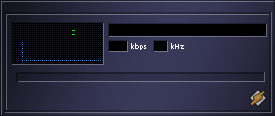
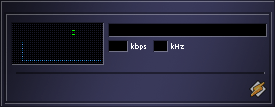
Player mais baixo: remove faixa central do MAIN (116->107px)
- MAIN.png sem as linhas 74-82; janela 275x107, elementos abaixo do
  corte sobem 9px (posbar, transporte, eject, shuffle/repeat)
- Botões shuffle/repeat trocados de posição
- Janela de menu adaptada ao novo MAIN

Generated with [Devin](https://devin.ai)

diff --git a/internal/ui/native/winamp.go b/internal/ui/native/winamp.go
@@ -26,7 +26,7 @@ func (ui *uiState) layoutMain(gtx layout.Context) {
 		return
 	}
 
-	ui.spr(gtx, "MAIN", R(0, 0, 275, 116), R(0, 0, 275, 116))
+	ui.spr(gtx, "MAIN", R(0, 0, 275, 107), R(0, 0, 275, 107))
 
 	// ---- titlebar ----
 	ui.spr(gtx, "TITLEBAR", R(47, 0, 222, 11), R(20, 0, 222, 11)) // contend
@@ -39,7 +39,7 @@ func (ui *uiState) layoutMain(gtx layout.Context) {
 		minimizeWindow(ui.winMain)
 	}
 	if ui.spriteBtn(gtx, &ui.btnSize, "TITLEBAR", R(254, 3, 9, 9), R(0, 18, 9, 9), R(9, 18, 9, 9)) {
-		toggleWindowScale(&ui.mainScale, ui.winMain, unit.Dp(275), unit.Dp(116))
+		toggleWindowScale(&ui.mainScale, ui.winMain, unit.Dp(275), unit.Dp(107))
 		saveMainScale(ui.mainScale)
 	}
 	if ui.spriteBtn(gtx, &ui.btnClose, "TITLEBAR", R(264, 3, 9, 9), R(18, 0, 9, 9), R(18, 9, 9, 9)) {
@@ -132,13 +132,13 @@ func (ui *uiState) shadeBar(gtx layout.Context, r image.Rectangle) {
 	// ---- 2x/1x (mesmo sprite do botão size da titlebar) ----
 	if ui.spriteBtn(gtx, &ui.btnSize, "TITLEBAR", R(247, 3, 12, 12),
 		R(0, 18, 9, 9), R(9, 18, 9, 9)) {
-		h := unit.Dp(116)
+		h := unit.Dp(107)
 		if ui.shadeMain.on {
 			h = unit.Dp(18)
 		}
 		toggleWindowScale(&ui.mainScale, ui.winMain, unit.Dp(275), h)
 		saveMainScale(ui.mainScale)
-		wmShadeFull("sfrega", shadePx(ui.mainScale, 116))
+		wmShadeFull("sfrega", shadePx(ui.mainScale, 107))
 	}
 
 	// ---- fechar ----
@@ -361,8 +361,8 @@ func (ui *uiState) posBar(gtx layout.Context, R func(int, int, int, int) image.R
 		ui.posDrag.val = float32(frac)
 	}
 	tx := 16 + int(float32(ui.posDrag.val)*219)
-	ui.spr(gtx, "POSBAR", R(248, 0, 29, 10), R(tx, 73, 29, 10))
-	ui.scrub(gtx, &ui.posDrag, R(16, 64, 248, 20))
+	ui.spr(gtx, "POSBAR", R(248, 0, 29, 10), R(tx, 64, 29, 10))
+	ui.scrub(gtx, &ui.posDrag, R(16, 64, 248, 12))
 }
 
 // transport desenha prev/play/pause/stop/next/eject (CBUTTONS.png).
@@ -382,12 +382,12 @@ func (ui *uiState) transport(gtx layout.Context, R func(int, int, int, int) imag
 		{&ui.btnNext, 108, 92, 22, func() { ui.p.Next(); ui.p.Play() }},
 	}
 	for _, b := range btns {
-		if ui.spriteBtn(gtx, b.b, "CBUTTONS", R(b.x, 88, b.w, 18),
+		if ui.spriteBtn(gtx, b.b, "CBUTTONS", R(b.x, 79, b.w, 18),
 			R(b.col, 0, b.w, 18), R(b.col, 18, b.w, 18)) {
 			b.fn()
 		}
 	}
-	if ui.spriteBtn(gtx, &ui.btnEject, "CBUTTONS", R(136, 89, 22, 16),
+	if ui.spriteBtn(gtx, &ui.btnEject, "CBUTTONS", R(136, 80, 22, 16),
 		R(114, 0, 22, 16), R(114, 16, 22, 16)) {
 		ui.eject()
 	}
@@ -396,11 +396,11 @@ func (ui *uiState) transport(gtx layout.Context, R func(int, int, int, int) imag
 // shuffleRepeat desenha botões repeat/shuffle (SHUFREP.png).
 func (ui *uiState) shuffleRepeat(gtx layout.Context, R func(int, int, int, int) image.Rectangle) {
 	// repeat em x=0 (28px), shuffle em x=28 (47px); y: 0 norm,15 pressed,30 sel,45 sel+pressed
-	if ui.eqplBtn(gtx, &ui.btnShuf, "SHUFREP", R(164, 88, 28, 15), ui.repeat,
+	if ui.eqplBtn(gtx, &ui.btnShuf, "SHUFREP", R(211, 79, 28, 15), ui.repeat,
 		R(0, 0, 28, 15), R(0, 15, 28, 15), R(0, 30, 28, 15), R(0, 45, 28, 15),
 		func() { ui.repeat = !ui.repeat; ui.p.SetRepeat(ui.repeat) }) {
 	}
-	if ui.eqplBtn(gtx, &ui.btnRep, "SHUFREP", R(192, 88, 47, 15), ui.shuffle,
+	if ui.eqplBtn(gtx, &ui.btnRep, "SHUFREP", R(164, 79, 47, 15), ui.shuffle,
 		R(28, 0, 47, 15), R(28, 15, 47, 15), R(28, 30, 47, 15), R(28, 45, 47, 15),
 		func() { ui.shuffle = !ui.shuffle; ui.p.SetShuffle(ui.shuffle) }) {
 	}

diff --git a/internal/ui/native/native.go b/internal/ui/native/native.go
@@ -911,7 +911,7 @@ func Run(p *player.Player) error {
 	ui.winMain.Option(
 		app.Title("sfrega"),
 		app.Decorated(false),
-		app.Size(unit.Dp(275*ui.mainScale), unit.Dp(116*ui.mainScale)),
+		app.Size(unit.Dp(275*ui.mainScale), unit.Dp(107*ui.mainScale)),
 	)
 
 	// restaura estado shade persistido
@@ -931,7 +931,7 @@ func Run(p *player.Player) error {
 			wmNoDecorations()
 			wmRestoreGeometry()
 			if shadePending && wmShadeSet("sfrega",
-				shadePx(ui.mainScale, 18), shadePx(ui.mainScale, 116)) {
+				shadePx(ui.mainScale, 18), shadePx(ui.mainScale, 107)) {
 				shadePending = false
 			}
 			if ontopPending && ontopTicks < 40 {
@@ -1009,7 +1009,7 @@ func Run(p *player.Player) error {
 			return e.Err
 		case app.FrameEvent:
 			gtx := app.NewContext(&ops, e)
-			gtx = beginScaledFrame(gtx, ui.mainScale, image.Pt(275, 116))
+			gtx = beginScaledFrame(gtx, ui.mainScale, image.Pt(275, 107))
 			ui.layoutMain(gtx)
 			e.Frame(gtx.Ops)
 		}

diff --git a/internal/ui/native/menwin.go b/internal/ui/native/menwin.go
@@ -141,11 +141,11 @@ func (ui *uiState) menuLoop() {
 func (ui *uiState) layoutMenu(gtx layout.Context) {
 	R := func(x, y, w, h int) image.Rectangle { return image.Rect(x, y, x+w, y+h) }
 
-	ui.spr(gtx, "MAIN", R(0, 0, 275, 116), R(0, 0, 275, 116))
+	ui.spr(gtx, "MAIN", R(0, 0, 275, 107), R(0, 0, 275, 107))
 	// altura dobrada: estende laterais e base com as bordas do MAIN
-	ui.spr(gtx, "MAIN", R(0, 0, 2, 116), R(0, 116, 2, 116))
-	ui.spr(gtx, "MAIN", R(273, 0, 2, 116), R(273, 116, 2, 116))
-	ui.spr(gtx, "MAIN", R(0, 106, 275, 10), R(0, 222, 275, 10))
+	ui.spr(gtx, "MAIN", R(0, 0, 2, 107), R(0, 107, 2, 125))
+	ui.spr(gtx, "MAIN", R(273, 0, 2, 107), R(273, 107, 2, 125))
+	ui.spr(gtx, "MAIN", R(0, 97, 275, 10), R(0, 222, 275, 10))
 	ui.spr(gtx, "TITLEBAR", R(47, 0, 222, 11), R(20, 0, 222, 11))
 	ui.spr(gtx, "TITLEBAR", R(0, 0, 9, 9), R(6, 3, 9, 9))
 
